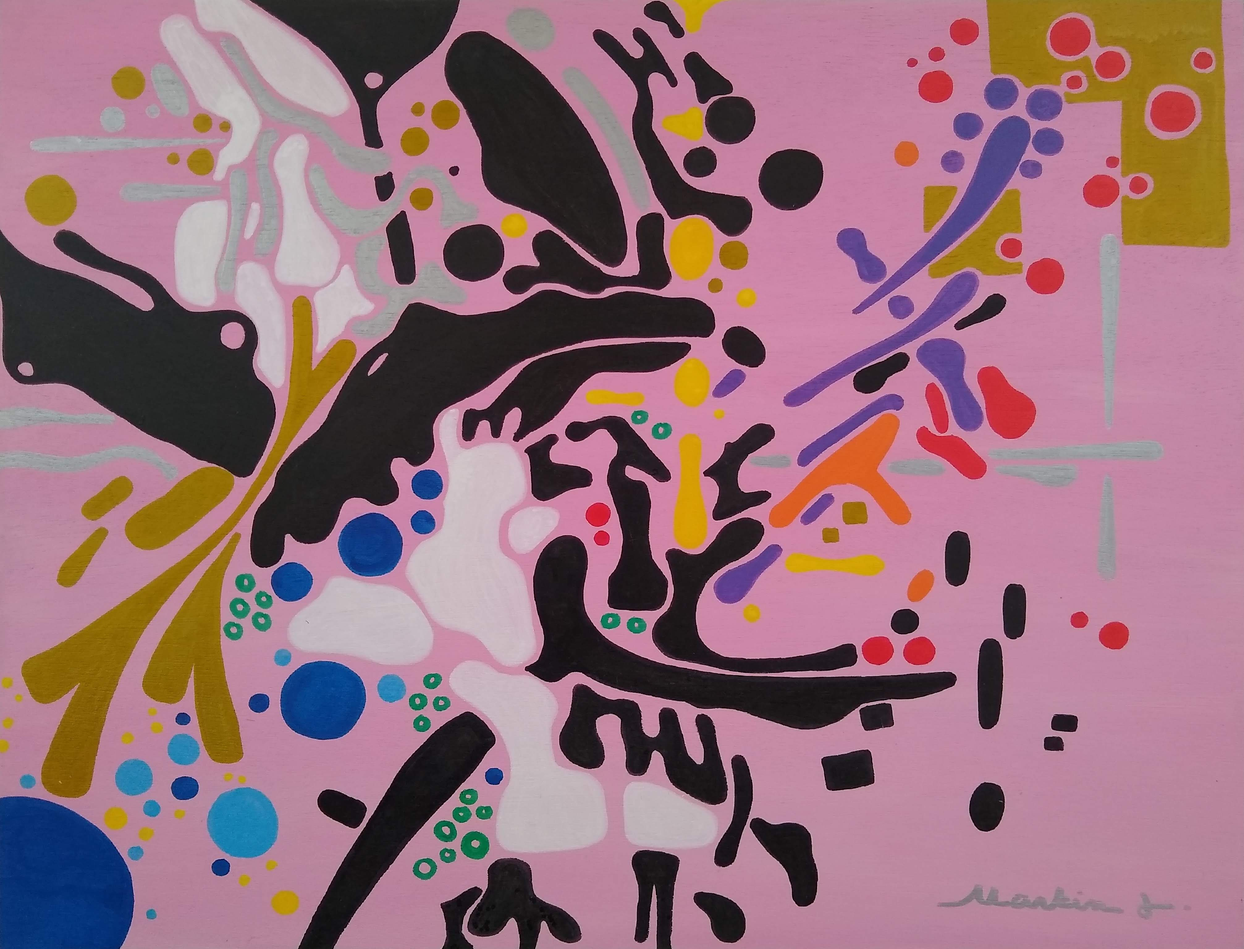
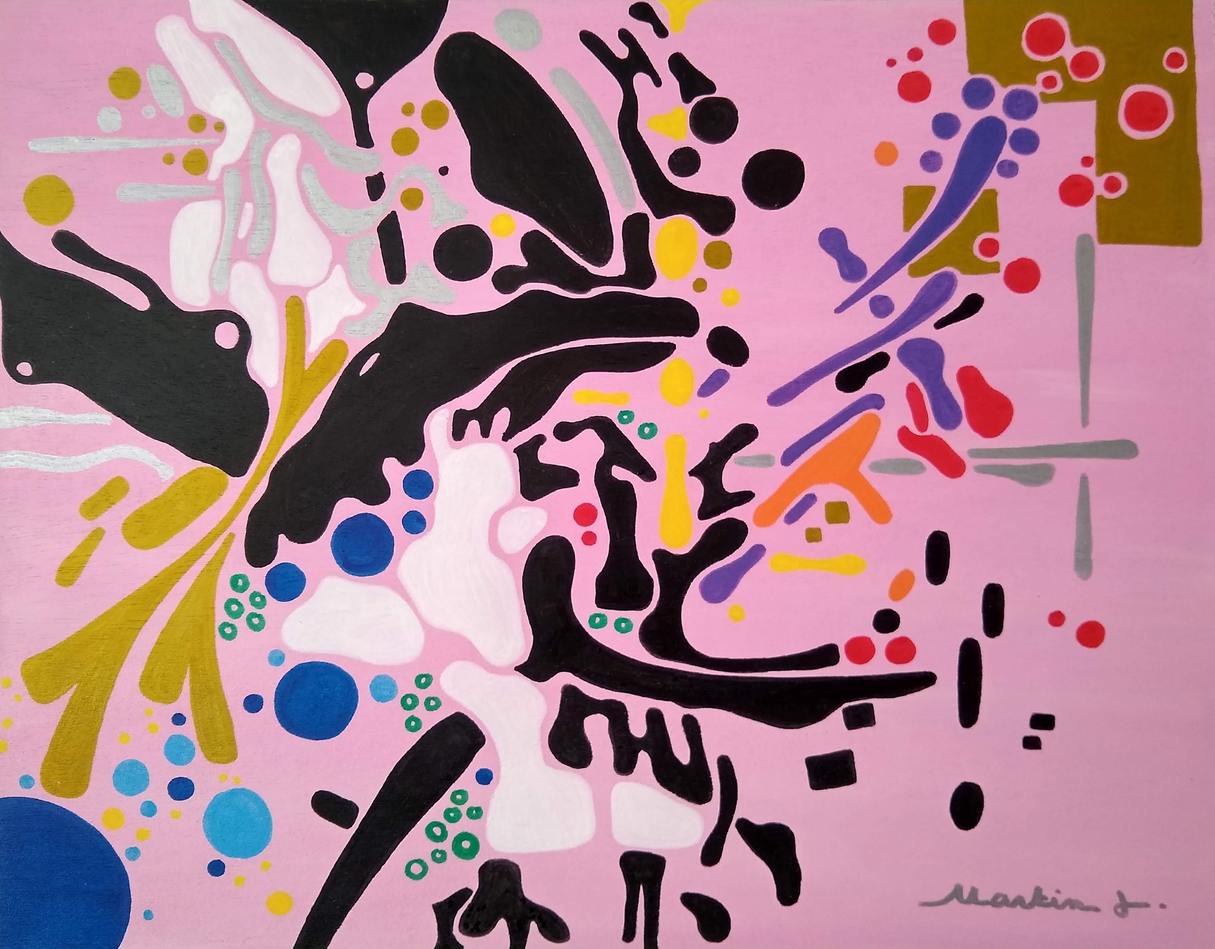
Publish site

diff --git a/docs/gallery/all/index.html b/docs/gallery/all/index.html
@@ -94,7 +94,7 @@ Are you interested in displaying my artworks in your public space for free? I’
    style="color:black">show artist's favorites</a> | all artworks
 </div>
 <a name="img-20230205">
-<figure style="margin: 0px 1%; padding-top: 40px">
+<figure style="margin: 0px 2%; padding-top: 40px">
 <a href="/art/mj-20230205"
      title="open dedicated page"> <img src="/gallery/img/medium/img-20230205.jpg"
          alt="abstract art"

diff --git a/src/gallery/all/index.md b/src/gallery/all/index.md
@@ -56,7 +56,7 @@ I'd love to do that! Please get in touch.
    style="color:black">show artist&#x27;s favorites</a> | all artworks</div>
 
 <a name="img-20230205">
-<figure style="margin: 0px 1%; padding-top: 40px">
+<figure style="margin: 0px 2%; padding-top: 40px">
   <a href="/art/mj-20230205"
      title="open dedicated page">
     <img src="/gallery/img/medium/img-20230205.jpg"
